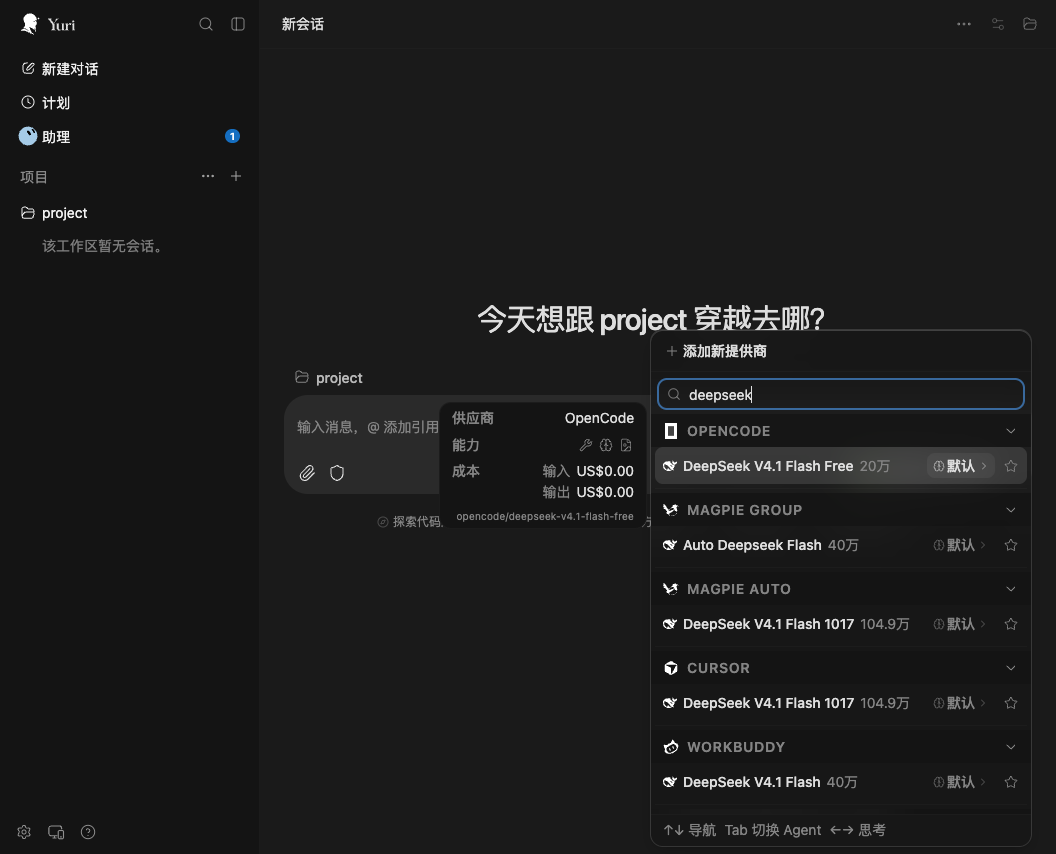
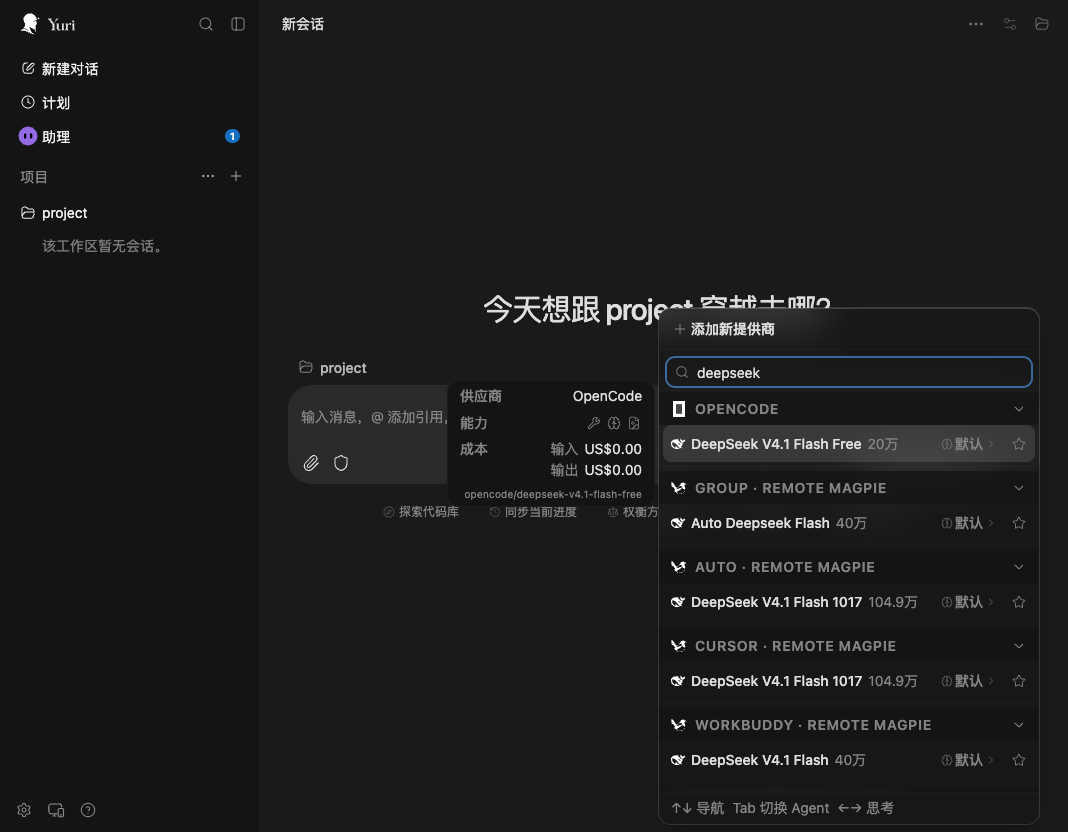
Preserve native OpenCode headers and verify Magpie-assigned Yuri connection

diff --git a/packages/magpie-provider/src/image.ts b/packages/magpie-provider/src/image.ts
@@ -15,7 +15,6 @@ export const listImageModels = async (
       Authorization: `Bearer ${connection.token}`,
       'X-Magpie-Drawers': '1',
       'X-Magpie-Agent': connection.agentID ?? 'opencode',
-      'User-Agent': `${connection.agentID ?? 'opencode'}/opencode-magpie-provider`,
     },
     redirect: 'error',
     signal: AbortSignal.any([AbortSignal.timeout(15_000), ...(signal ? [signal] : [])]),
@@ -61,7 +60,6 @@ export const drawImage = async (
       Authorization: `Bearer ${connection.token}`,
       'Content-Type': 'application/json',
       'X-Magpie-Agent': connection.agentID ?? 'opencode',
-      'User-Agent': `${connection.agentID ?? 'opencode'}/opencode-magpie-provider`,
     },
     // Without a model Magpie draws with the one chosen in its Settings.
     body: JSON.stringify({ ...input, n: 1, response_format: 'b64_json' }),

diff --git a/packages/magpie-provider/src/index.ts b/packages/magpie-provider/src/index.ts
@@ -61,7 +61,6 @@ export const setupPlugin: Plugin2['setup'] = async (ctx) => {
         await connection.ensure();
         event.request.headers.set('X-Magpie-Session', event.sessionID);
         event.request.headers.set('X-Magpie-Agent', agentID ?? 'opencode');
-        event.request.headers.set('User-Agent', `${agentID ?? 'opencode'}/opencode-magpie-provider`);
       }),
     );
     await reloadProviderCatalog(ctx);

diff --git a/packages/magpie-provider/src/gateway.ts b/packages/magpie-provider/src/gateway.ts
@@ -240,7 +240,6 @@ export const fetchModels = async (baseURL: string, token = 'magpie', agentID = '
       Authorization: `Bearer ${token}`,
       'X-Magpie-Prices': '1',
       'X-Magpie-Agent': agentID,
-      'User-Agent': `${agentID}/opencode-magpie-provider`,
     },
     redirect: 'error',
     signal: AbortSignal.timeout(15_000),

diff --git a/packages/magpie-provider/src/catalog.ts b/packages/magpie-provider/src/catalog.ts
@@ -323,7 +323,6 @@ export const buildInventory = (
           headers: {
             Authorization: `Bearer ${apiKey}`,
             'X-Magpie-Agent': options.agentID ?? 'opencode',
-            'User-Agent': `${options.agentID ?? 'opencode'}/opencode-magpie-provider`,
           },
         },
         models: [],

diff --git a/packages/yuri/VERIFICATION.md b/packages/yuri/VERIFICATION.md
@@ -9,56 +9,78 @@ alone. Long-running test services ran in a task-owned tmux session.
 
 ## 1. Yuri model listing and real inference
 
-1. `npm pack --ignore-scripts --workspaces=false` in `packages/magpie-provider`;
-   extract the tarball into the temporary HOME. No node_modules or runtime
-   install is needed. The complete source is included alongside `dist/index.mjs`.
-2. Start `opencode serve --hostname 127.0.0.1 --port <test-api-port>` with that
-   HOME and `OPENCODE_CONFIG_DIR`. Use its generated server credential privately;
-   do not publish it or raw startup logs. Load the extracted local package with
-   `options.agentID: "yuri"` and an explicit remote connection to an already
-   running Magpie gateway. No subscription token is copied into the fixture.
-3. Start a separate Yuri Web process with the temporary `YURI_DATA_DIR`,
+The original attribution run used a generic gateway key and then overwrote the
+User-Agent to obtain a Yuri label. That was not evidence of a real integration.
+**It has been removed and superseded by the native-contract run below.**
+
+1. Inspect the real cloned Yuri source: `packages/ui/src/lib/opencode/client.ts`
+   uses the official session create/prompt boundary, and
+   `packages/web/server/lib/opencode/lifecycle.js` owns the external/shared
+   service connection. Yuri is an OpenCode client; OpenCode owns model HTTP.
+   No Yuri source, bundle, request metadata or upstream OpenCode source was patched.
+2. Start an actual sandbox Magpie host with temporary HOME/XDG directories.
+   Its built-in Remote Magpie provider points to the already-running gateway,
+   so real inference is forwarded by Magpie's native implementation. Install
+   this checkout's Agent and run `magpie yuri provider magpie`.
+3. Let the actual bridge create the pinned community provider entry. Assert
+   `options.remote.token` equals the key in Magpie's generated Yuri sidecar,
+   and that it is not the generic key from the superseded test. Do not derive,
+   rewrite, append to, replace, or print the assigned key.
+4. `npm pack --ignore-scripts --workspaces=false` in `packages/magpie-provider`
+   and extract it. Because npm first publication is pending, change **only the
+   package reference** in the isolated config to the local packed artifact;
+   every bridge-produced option/key is retained byte-for-byte. OpenCode sees
+   this local replacement as user-managed. This is not a claim that an
+   unpublished npm version can already be installed.
+5. Start `opencode serve --hostname 127.0.0.1 --port <test-api-port>` with the
+   same HOME and config directory. Privately pass its generated server
+   credential to a separate process started from the cloned Yuri Web source:
+   `packages/web/server/index.js`, with temporary `YURI_DATA_DIR`,
    `OPENCODE_HOST` set to this API, `OPENCODE_SKIP_START=true` and its server
-   credential. Open its UI in a separate browser tab; skip optional onboarding
-   configuration and add only the temporary fixture project.
-4. In Yuri's model picker, search for DeepSeek. The picker displayed the live
-   Magpie Group, Cursor, WorkBuddy and Astra catalogs. Select **WorkBuddy →
-   DeepSeek V4.1 Flash** (not OpenCode's free DeepSeek model).
-5. Send `This is a connectivity test. Do not use tools or inspect files.
-   Reply with exactly: YURI_MAGPIE_OK`. Yuri displayed the completed answer
-   `YURI_MAGPIE_OK`. After the coexistence switches below, another prompt returned
-   `YURI_COEXIST_OK` through the same session/provider.
+   credential. Open the real UI in a separate browser tab and add only the
+   temporary fixture project. No subscription credentials are copied.
+6. Search the model picker for DeepSeek; select **WorkBuddy · Remote Magpie →
+   DeepSeek V4.1 Flash**, not OpenCode's free model. The UI completed the replies
+   `YURI_NATIVE_KEY_OK` and `YURI_REAL_HEADERS_OK`.
 
-The provider cannot be resolved from its future npm pin before the first
-community npm publication. This run deliberately used the **packed local
-artifact**, not a claimed installation of an unpublished npm version. Separate
-bridge tests verify the exact production pin/options and ownership semantics.
+### Observe the native contract without modifying requests
 
-### Real attribution, not only a mocked header
+Load `verification/native-observer.mjs` as the `index.mjs` of a temporary local
+plugin package after the provider (with `exports["."] = "./index.mjs"`). Set
+`YURI_VERIFY_CONTROL_FILE` to the actual Magpie-generated sidecar and
+`YURI_VERIFY_OUTPUT_FILE` to a private temporary JSONL file. This **test-only,
+read-only** hook validates the actual HTTP request; it never mutates its headers,
+body, URL or credentials. It records no key values or message bodies.
 
-The first live run revealed two important details: the provider info's static
-header also needed updating, and Magpie does not use `X-Magpie-Agent` to identify
-a direct non-Magpie client. The final provider therefore sets the chosen id in
-both `X-Magpie-Agent` and `User-Agent`, in the catalog, HTTP hook, discovery and
-image calls. A new packed artifact was loaded and its runtime provider headers
-were checked. The final UI prompt returned `YURI_USAGE_OK`.
-
-Filtered `magpie usage --csv --last 60m`, matching only this test session:
+Observed on the completed `YURI_REAL_HEADERS_OK` request:
 
 ```text
-time:          2026-11-07T10:55:59+08:00
-session:       ses_e4c159131ffeeJEXaEnmV1zA1K
-agent:         yuri
-model:         deepseek-v4.1-flash
-status:        200
-input_tokens:  173
-output_tokens: 6
+session:         ses_e4c05ae55ffe2D4EmXmmOQiwu6
+kind:            primary
+path:            /v1/chat/completions
+User-Agent:      opencode/latest/2.2.6/cli
+X-Magpie-Agent:  yuri  (advisory, not proof of the UI caller)
+usesAssignedKey: true
 ```
 
-Earlier attempts in that test session were correctly observed as `opencode`;
-they are not presented as successful attribution checks. Gateway keys explicitly
-assigned to another agent still take precedence; the plugin does not rewrite
-credentials to override their ownership.
+Filtered actual sandbox `magpie usage --csv --last 15m`, for that session:
+
+```text
+time:          2026-11-07T11:09:17+08:00
+session:       ses_e4c05ae55ffe2D4EmXmmOQiwu6
+agent:         yuri
+model:         workbuddy/deepseek-v4.1-flash
+status:        200
+input_tokens:  221
+output_tokens: 9
+```
+
+The checked source contract is Magpie's `internal/agent/plugged.go` (passes
+`agentKeyAt(id, gateway)` to the Agent's `connect`) and
+`internal/gateway/gateway.go` (uses the assigned Agent key before User-Agent).
+The provider preserves both that key and OpenCode's native User-Agent.
+`options.agentID` remains an advisory label, not an invented Yuri native API.
+For a remote/custom gateway key, no independent UI attribution is claimed.
 
 ![Yuri lists Magpie's models](verification/models.png)
 ![Real replies in the isolated Yuri Web UI](verification/replies.png)
@@ -66,15 +88,16 @@ credentials to override their ownership.
 ## 2. Yuri and the built-in OpenCode adapter
 
 Two complementary checks used **actual Magpie CLI operations**, not a simulated
-JSON writer. The sandbox provider `fixture/fixture-model` has a fake key and a
-non-listening loopback URL: it is only for writing the built-in adapter's config,
-never an inference target.
+JSON writer: a separate managed-entry ownership fixture and real UI/CLI inference
+through the native Remote Magpie upstream.
 
 ### Managed npm entry / reversible ownership
 
 With a separate `OPENCODE_CONFIG_DIR`, the initial JSONC contained a user comment,
 `"model":"user/keep"` and `"plugins":[]`. A sandbox Magpie host loaded the Yuri
-Agent from this checkout.
+Agent from this checkout. Only this ownership fixture uses the sandbox provider
+`fixture/fixture-model`, with a fake key and a non-listening loopback URL; it is
+never an inference target.
 
 | Operation | `plugins` | `provider.magpie` | `model` |
 | --- | --- | --- | --- |
@@ -91,18 +114,35 @@ or restore stale whole-file bytes over its changes.
 
 ### While the real Yuri UI was connected
 
-The sandbox Magpie host was then pointed to the **same** `OPENCODE_CONFIG_DIR`
-as the running isolated OpenCode/Yuri pair from run 1. The extracted local
+In the native-contract run from section 1, the sandbox Magpie host and running
+OpenCode/Yuri pair used the **same** `OPENCODE_CONFIG_DIR`. The extracted local
 community provider entry is user-owned; Yuri recognizes it without modifying
 its gateway URL/token/options. While Yuri remained connected:
 
-- OpenCode ON retained that local `plugins` entry, added `provider.magpie`, and
-  set `model` to `magpie/fixture/fixture-model`.
+- `magpie opencode upstream/workbuddy/deepseek-v4.1-flash` retained the complete
+  `plugins` array, added `provider.magpie`, and set `model` to
+  `magpie/upstream/workbuddy/deepseek-v4.1-flash`.
+- A real `opencode run --server <isolated-api> --model
+  magpie/upstream/workbuddy/deepseek-v4.1-flash` completed the CLI control reply
+  through that built-in adapter's own native connection.
 - OpenCode OFF retained the local provider, removed `provider.magpie`, and
   restored the previous absent `model`.
 - The existing Yuri conversation remained on its selected WorkBuddy model;
-  a follow-up inference completed with `YURI_COEXIST_OK`.
-- Yuri OFF retained the independently installed local provider, as documented.
+  a follow-up inference completed with `YURI_NATIVE_COEXIST_OK`. The read-only
+  observer again recorded the real `opencode/latest/2.2.6/cli` User-Agent and
+  `usesAssignedKey: true` for its dynamic provider.
+
+Actual sandbox Usage control/positive records (both HTTP 200):
+
+| Time (+08:00) | Client connection | Usage Agent | Session | Input/output tokens |
+| --- | --- | --- | --- | --- |
+| 2026-11-07 11:11:12 | Built-in OpenCode adapter, real CLI | `opencode` | `ses_e4c02e059ffeWiaEXMBG16snsX` | 6320 / 135 |
+| 2026-11-07 11:11:25 | Dynamic provider, real Yuri UI | `yuri` | `ses_e4c05ae55ffe2D4EmXmmOQiwu6` | 145 / 9 |
+
+Both records used the real `workbuddy/deepseek-v4.1-flash` upstream. This is a
+comparison of two native **connections**, not a claim that the plugin detects
+which UI used a shared provider/key. Any client using Yuri's same provider/key
+shares its attribution.
 
 The static built-in catalog and the dynamic provider are separate catalogs;
 the Agent does not claim they are deduplicated or share model-selection state.
@@ -129,7 +169,7 @@ no commit read-check; no restore duplicate guard; no URL guard; no key charset.
 
 The provider's 58 tests include the upstream catalog/pricing/group/reasoning
 regressions and an isolated subprocess using the **bundled runtime**. It checks
-default/custom attribution including static provider headers, refresh retention,
+default/custom advisory labels, unchanged native User-Agent, refresh retention,
 request origin/path boundaries, credential-free models.dev fetches, redirect
 rejection, image tools and reverse-order disposal on normal/failed setup.
 
@@ -137,9 +177,10 @@ The checker now accepts native V2 `{id, setup/effect}` packages without running
 setup or inventing a V1 auth hook. Its new fixture test checks missing packed
 files and broken V2 exports are still rejected.
 
-Full repository suite with a temporary HOME and a separately downloaded Bun
+After removing the User-Agent overrides, the full repository suite was rerun
+with a temporary HOME and a separately downloaded Bun
 1.4.4 (the system Bun was not upgraded): **6559 pass, 9 skip, 0 fail**, 6568
-tests across 480 files, 208 seconds. The full plugin/registry checker passed.
+tests across 480 files, 206.60 seconds. The full plugin/registry checker passed.
 Both packages were also packed/extracted and tested without node_modules:
 40 bridge tests and the provider's bundled-runtime scenario pass. Rebuilding
 the committed provider bundle with Bun 1.3.14 produces byte-identical output.

diff --git a/packages/yuri/README.md b/packages/yuri/README.md
@@ -1,5 +1,7 @@
 # Yuri as a Magpie Agent
 
+Yuri original website: **https://useyuri.top**.
+
 Adds **Yuri** to Magpie's Agents page. Connecting installs
 [`@magpie-community/opencode-magpie-provider`](../magpie-provider)
 in Yuri's OpenCode V2 service configuration, rather than generating a second,
@@ -35,7 +37,10 @@ The same integration is also available as the standalone
 [yee94/magpie-agent-yuri](https://github.com/yee94/magpie-agent-yuri) Git package.
 Install one variant only: both declare the same `yuri` Agent id. This community
 package bundles its parser and follows the repository's dist/npm publishing
-workflow; it requires no runtime dependency installation or build scripts.
+workflow; it requires no runtime dependency installation or build scripts. The
+standalone Git package instead ships the corrected provider in its own local
+`provider/` directory, retaining its existing package names and requiring no
+separate npm publication.
 
 ## What is written
 
@@ -48,9 +53,11 @@ workflow; it requires no runtime dependency installation or build scripts.
   Magpie's dist fallback alone is not enough for OpenCode. A new entry passes
   `options.remote.baseURL` and `options.remote.token` from that connection,
   so it does not guess a port or copy any upstream subscription credentials.
-  It also sets `options.agentID: "yuri"` for model discovery, inference and image
-  request attribution. Existing original/community provider entries are retained
-  unchanged, so a user-owned original plugin may still attribute calls to OpenCode.
+  It also sets `options.agentID: "yuri"` as an advisory label on discovery,
+  inference and image requests, without replacing OpenCode's real User-Agent.
+  Local Agent attribution comes from Magpie's assigned connection key, passed
+  unchanged to the provider, not from that label. Existing original/community
+  provider entries keep their own connection/options and attribution unchanged.
 - OpenCode's directory is `OPENCODE_CONFIG_DIR`, otherwise
   `$XDG_CONFIG_HOME/opencode`, otherwise `~/.config/opencode`. The bridge checks
   both `opencode.json` and `opencode.jsonc`, plus `OPENCODE_CONFIG` when set.
@@ -115,11 +122,14 @@ Do not use Magpie's built-in OpenCode adapter to maintain another static
 `magpie` provider alongside this dynamic integration unless you intend to have
 both catalogs.
 
-The shared provider's `agentID` is not UI detection: a CLI calling through the
-same provider also reports `yuri`. The built-in OpenCode Agent remains a separate
-static catalog; its own calls report OpenCode. Connecting/disconnecting it must
-leave Yuri's `plugins` entry intact. Yuri disconnect must preserve that adapter's
-`provider.magpie` and model settings if they were edited after Yuri connected.
+The shared provider's `agentID` is not UI detection. A CLI calling through the
+same provider/key shares that connection's attribution; the label alone cannot
+identify Yuri or relabel a direct OpenCode caller. The built-in OpenCode Agent
+remains a separate static catalog/connection. Its own native CLI request was
+verified as OpenCode, while the Yuri connection was verified as Yuri (see
+`VERIFICATION.md`). Connecting/disconnecting it must leave Yuri's `plugins`
+entry intact. Yuri disconnect must preserve that adapter's `provider.magpie`
+and model settings if they were edited after Yuri connected.
 
 ## Tests
 

diff --git a/packages/magpie-provider/README.md b/packages/magpie-provider/README.md
@@ -1,5 +1,7 @@
 # Magpie provider for OpenCode V2
 
+Yuri original website: **https://useyuri.top**.
+
 This is the reviewable, community-published provider used by the Yuri Agent.
 It connects **OpenCode to Magpie**, not Magpie to another subscription service.
 It adds no sign-in, billing channel or registry provider listing. Install the
@@ -28,13 +30,21 @@ their attribution; the bridge never silently upgrades or rewrites them.
 1–64 characters (`a-z`, `0-9`, `.`, `_`, `-`, starting with a letter or digit).
 The bridge passes `yuri`; the provider uses it for `X-Magpie-Agent` on model
 discovery, model HTTP requests and image calls. The option labels the shared
-provider, not the caller UI: a CLI using that same service and provider is also
-counted as Yuri. Session requests additionally send `X-Magpie-Session`.
-The provider also sets `User-Agent: <agentID>/opencode-magpie-provider`:
-Magpie only trusts `X-Magpie-Agent` from another Magpie's User-Agent, so that
-header alone cannot identify a direct OpenCode client. Agent-specific gateway
-keys remain authoritative; an existing key explicitly named for another agent
-must not be silently replaced by this package.
+provider, not the caller UI; it does not independently determine Magpie Usage
+attribution. Session requests additionally send `X-Magpie-Session`.
+The provider does **not** replace OpenCode's User-Agent or claim to be Yuri.
+Magpie's real Agent connection supplies `gateway.key` to `connect({ gateway })`;
+the bridge passes that assigned key unchanged as `options.remote.token`. On a
+local gateway, Magpie identifies that Agent from its assigned key before looking
+at the User-Agent. `X-Magpie-Agent` is a configured advisory label, not proof of
+which UI submitted a request; it alone does not relabel a direct OpenCode client.
+An existing key assigned to another agent is never rewritten to match `agentID`.
+
+Yuri's cloned source uses the normal OpenCode session/prompt API. The shared
+OpenCode service owns the outbound model request and sets its real User-Agent.
+No model-client provenance is inferred from a window title, a URL, session text,
+or a static `agentID`. If a CLI uses the same provider/key it has the same
+connection attribution; this integration cannot claim per-UI isolation.
 
 Gateway credentials go only to the configured HTTP(S) API base. Authenticated
 discovery and image calls reject redirects. The HTTP hook matches both origin

diff --git a/packages/magpie-provider/THIRD_PARTY.md b/packages/magpie-provider/THIRD_PARTY.md
@@ -6,10 +6,10 @@ and icon are included unchanged. `src/` contains the complete runtime source,
 including pricing data; no implementation is downloaded from the original npm
 package. The catalog regression tests are adapted from the same source.
 
-Community changes: configurable `agentID` on discovery, chat and image calls
-(both the attribution header and direct-client User-Agent);
+Community changes: configurable `agentID` as an advisory header on discovery,
+chat and image calls, without overriding the real host's User-Agent;
 community package metadata; credential-boundary and lifecycle tests. Existing
-`magpie.providers` plugin identity and default `opencode` attribution remain
+`magpie.providers` plugin identity and default `opencode` advisory label remain
 compatible. The original package and this package must not be loaded together.
 
 Build from this folder with Bun 1.3.14 (no dependencies or install scripts):
